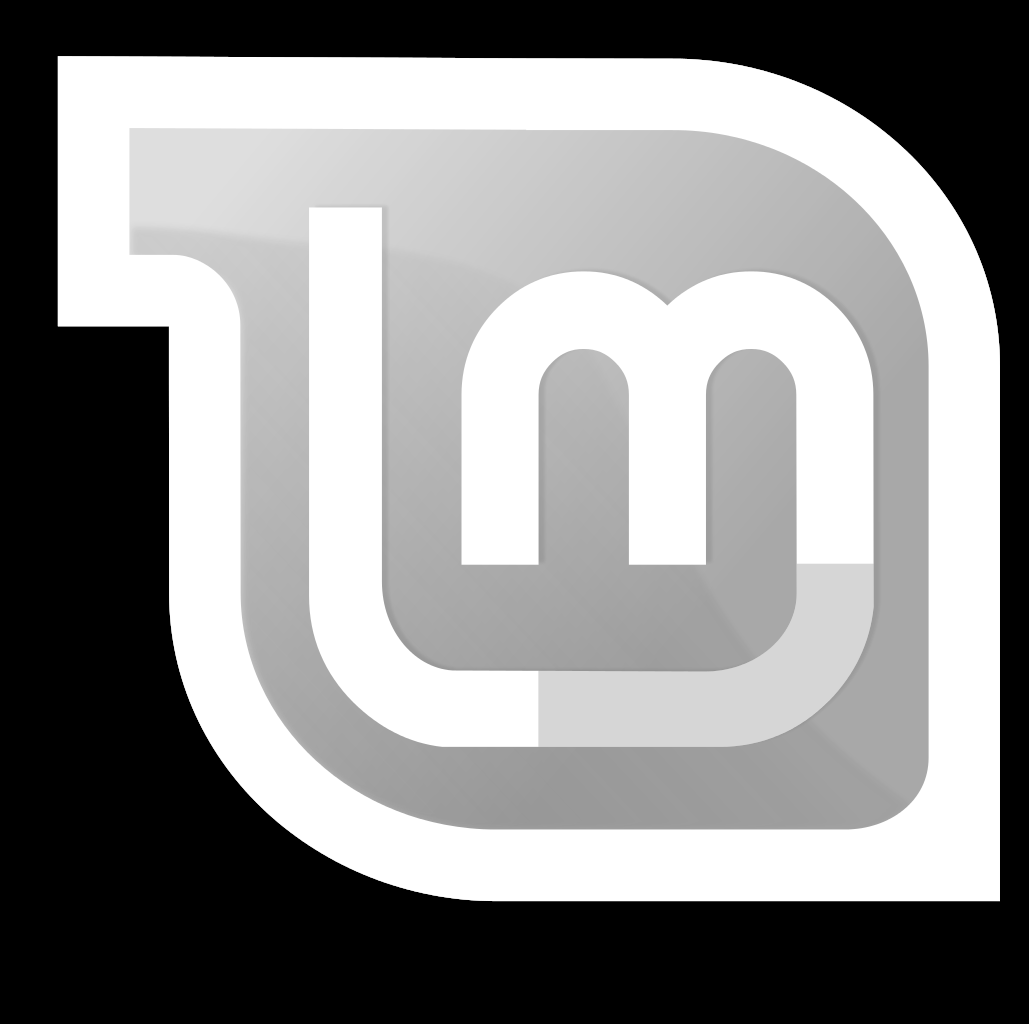
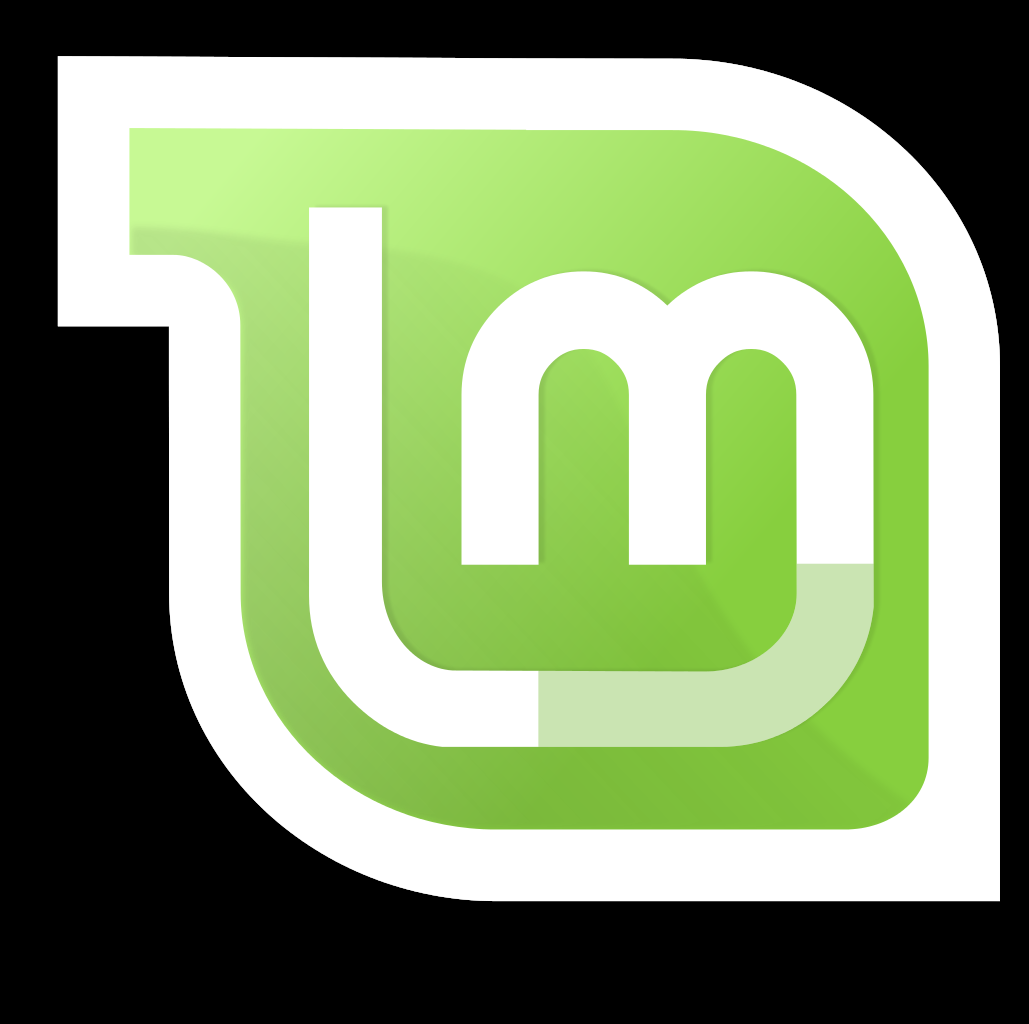
fonctionne image rgb

diff --git a/main.cpp b/main.cpp
@@ -29,8 +29,11 @@ int main(int argc, char** argv) {
       printf("usage: DisplayImage.out <Image_Path>\n");
       return -1;
   }
+  // Initialiser une cv::mat pour l'image
   cv::Mat img;
-  img = cv::imread( argv[1], cv::IMREAD_GRAYSCALE );
+  // Lire l'image as is
+  img = cv::imread( argv[1]);
+  
   if ( !img.data )
   {
       printf("No image data \n");
@@ -62,22 +65,22 @@ int main(int argc, char** argv) {
     // execute the function    
     if (m_PyFooBar != NULL)
     {
-      //cout << "Function found ok" << endl;
 
-      // Convertir image en format lisible par PyObject
-      // total number of elements (here it's a grayscale 640x480)
-      //int nElem = img.size[0] * img.size[1];
-      // create an array of apropriate datatype
-      //uchar* m = new uchar[nElem];
-      // copy the data from the cv::Mat object into the array
-      // std::memcpy(m, img.data, nElem * sizeof(uchar));
-      // the dimensions of the matrix
-      npy_intp mdim[] = { img.size[0], img.size[1] };
-      npy_intp ndim = 2;
-      void *data = img.data;
+      // ETAPE 1 : Convertir image en format lisible par Python
+      npy_intp ndim = img.dims;
+      npy_intp nchannels = img.channels();
+     
+      npy_intp *msize{ new npy_intp[ndim]{} }; //dynamic array
+      msize[0] = img.size[0];
+      msize[1] = img.size[1];
+      if (nchannels > 2){
+        msize[2] = nchannels;
+      }
       
-      // convert the cv::Mat to numpy.array
-      PyObject* mat = PyArray_SimpleNewFromData(ndim, mdim, NPY_UINT8, data);
+
+      void *data = img.data;
+      // on crée un numpy array avec le data du cv::mat
+      PyObject* mat = PyArray_SimpleNewFromData(nchannels, msize, NPY_UINT8, data);
       
       // create a Python-tuple of arguments for the function call
       // "()" means "tuple". "O" means "object"
